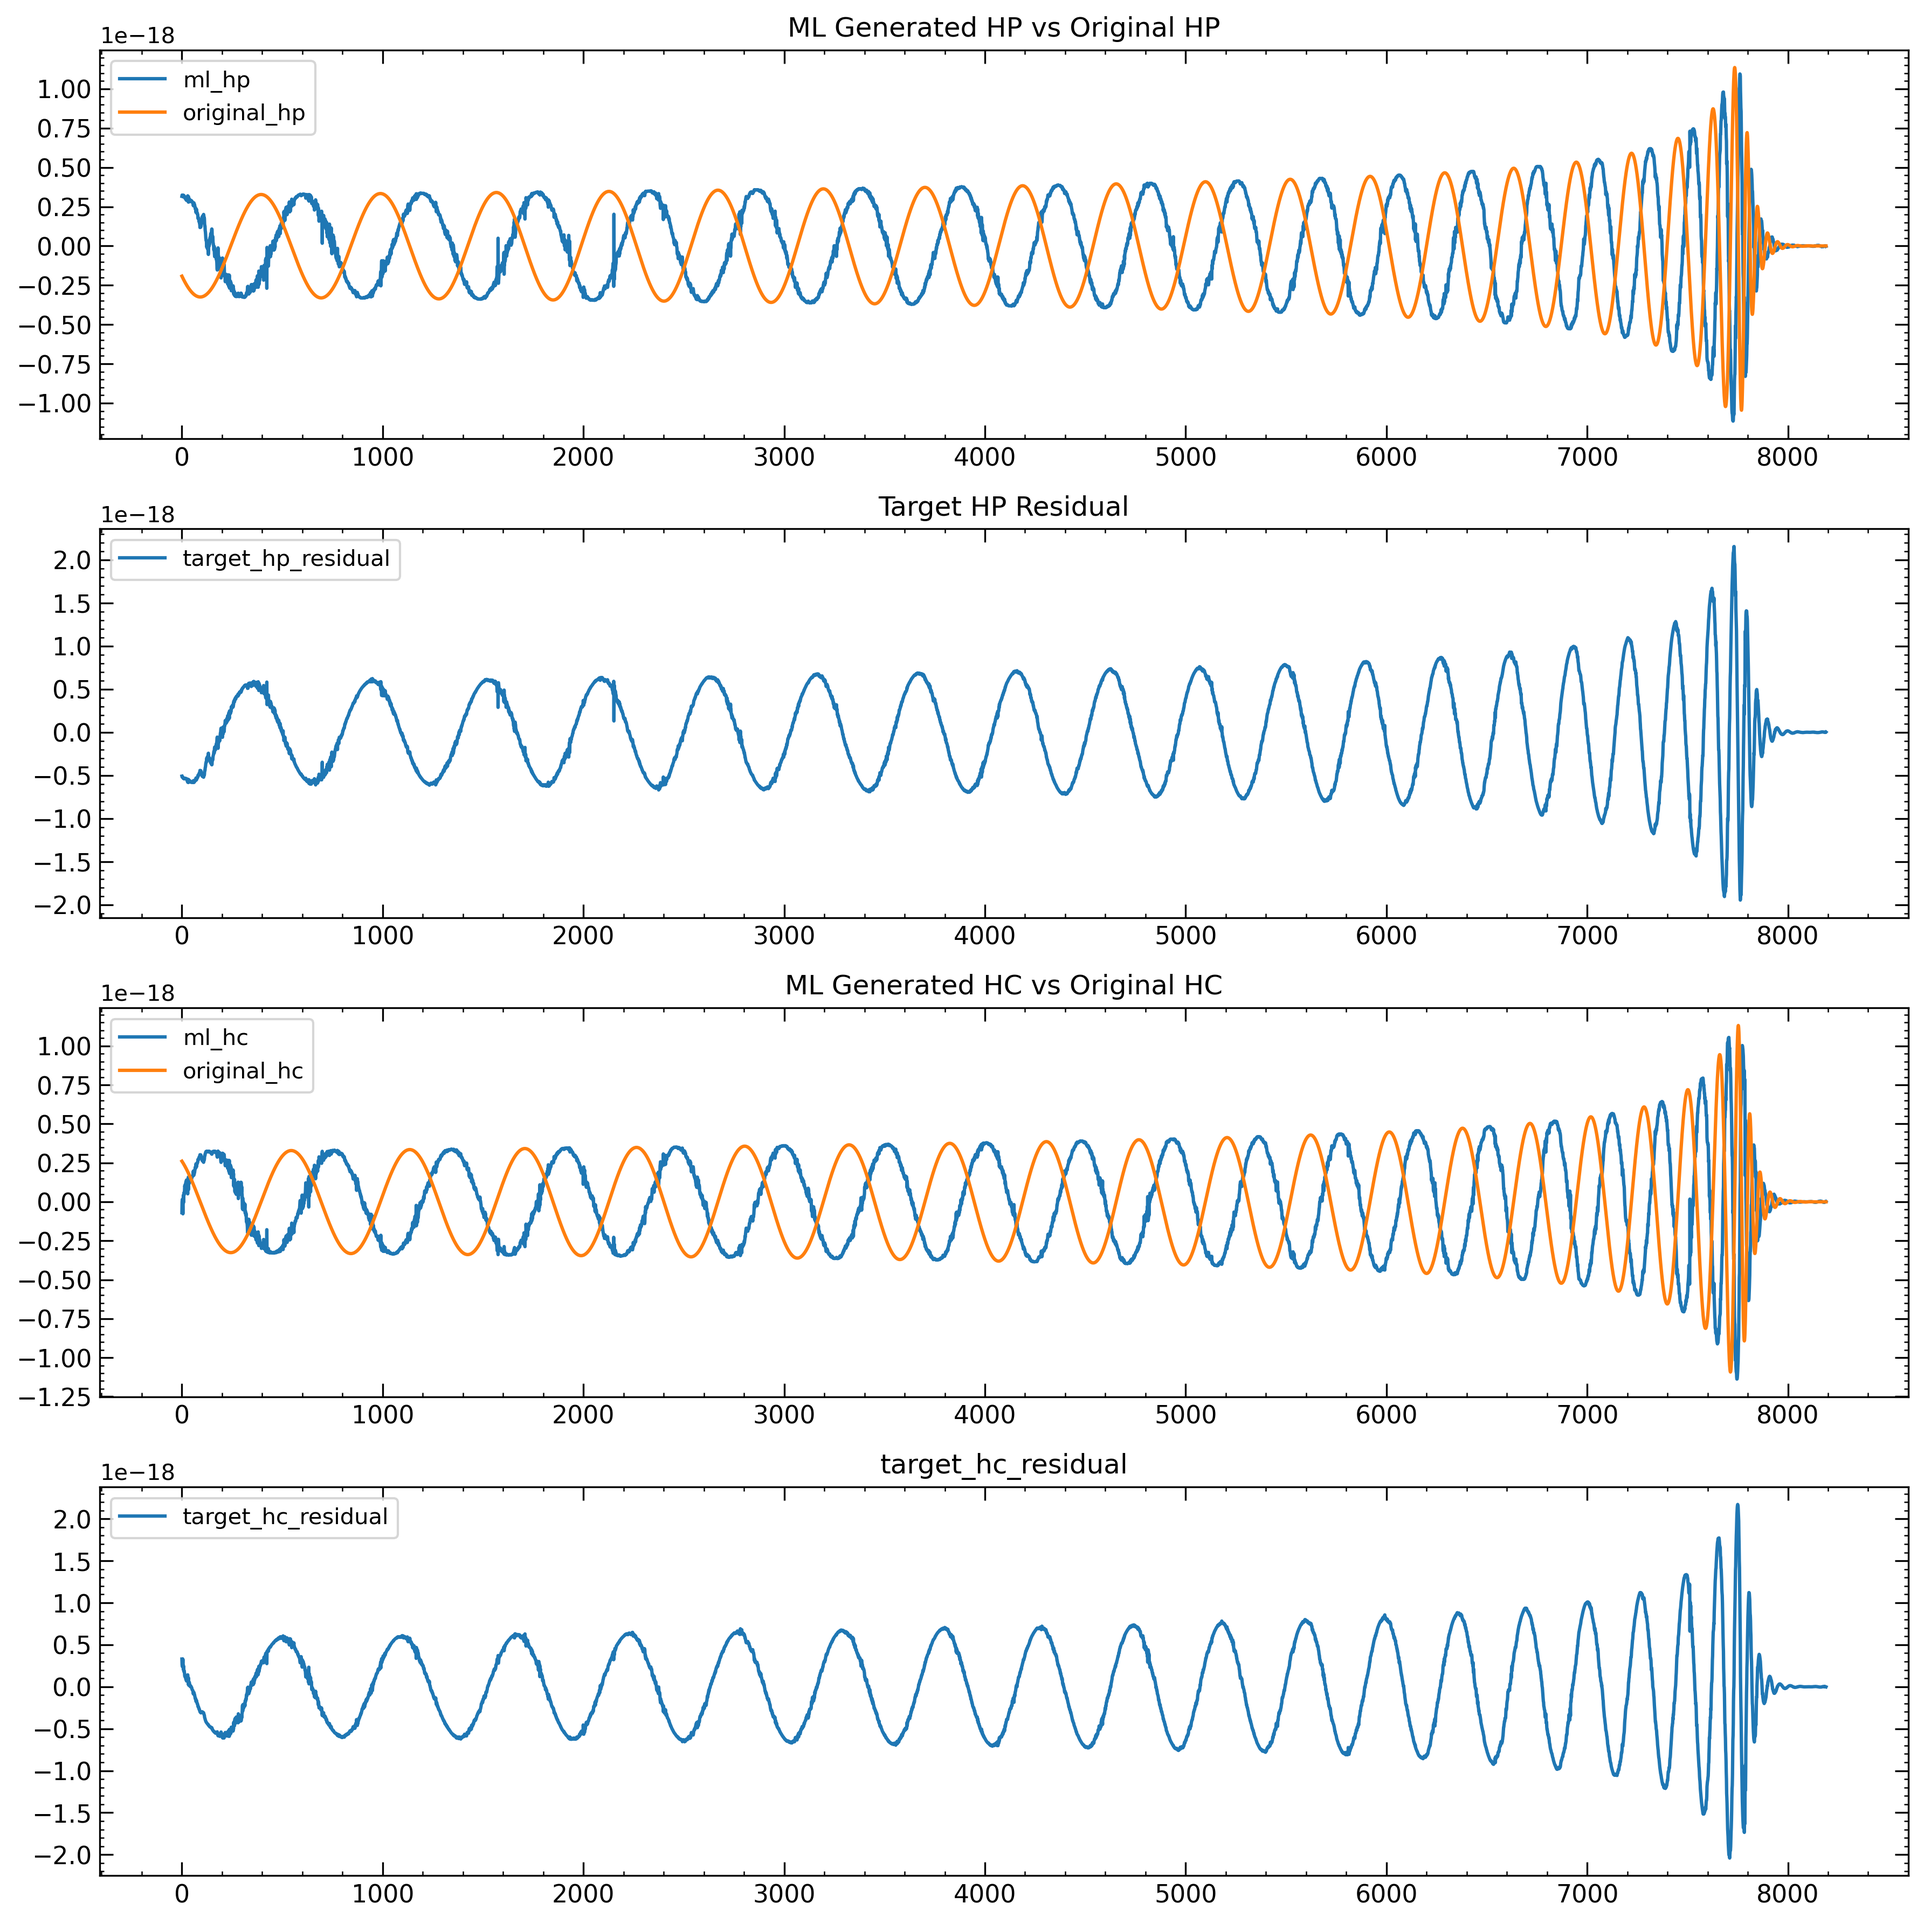
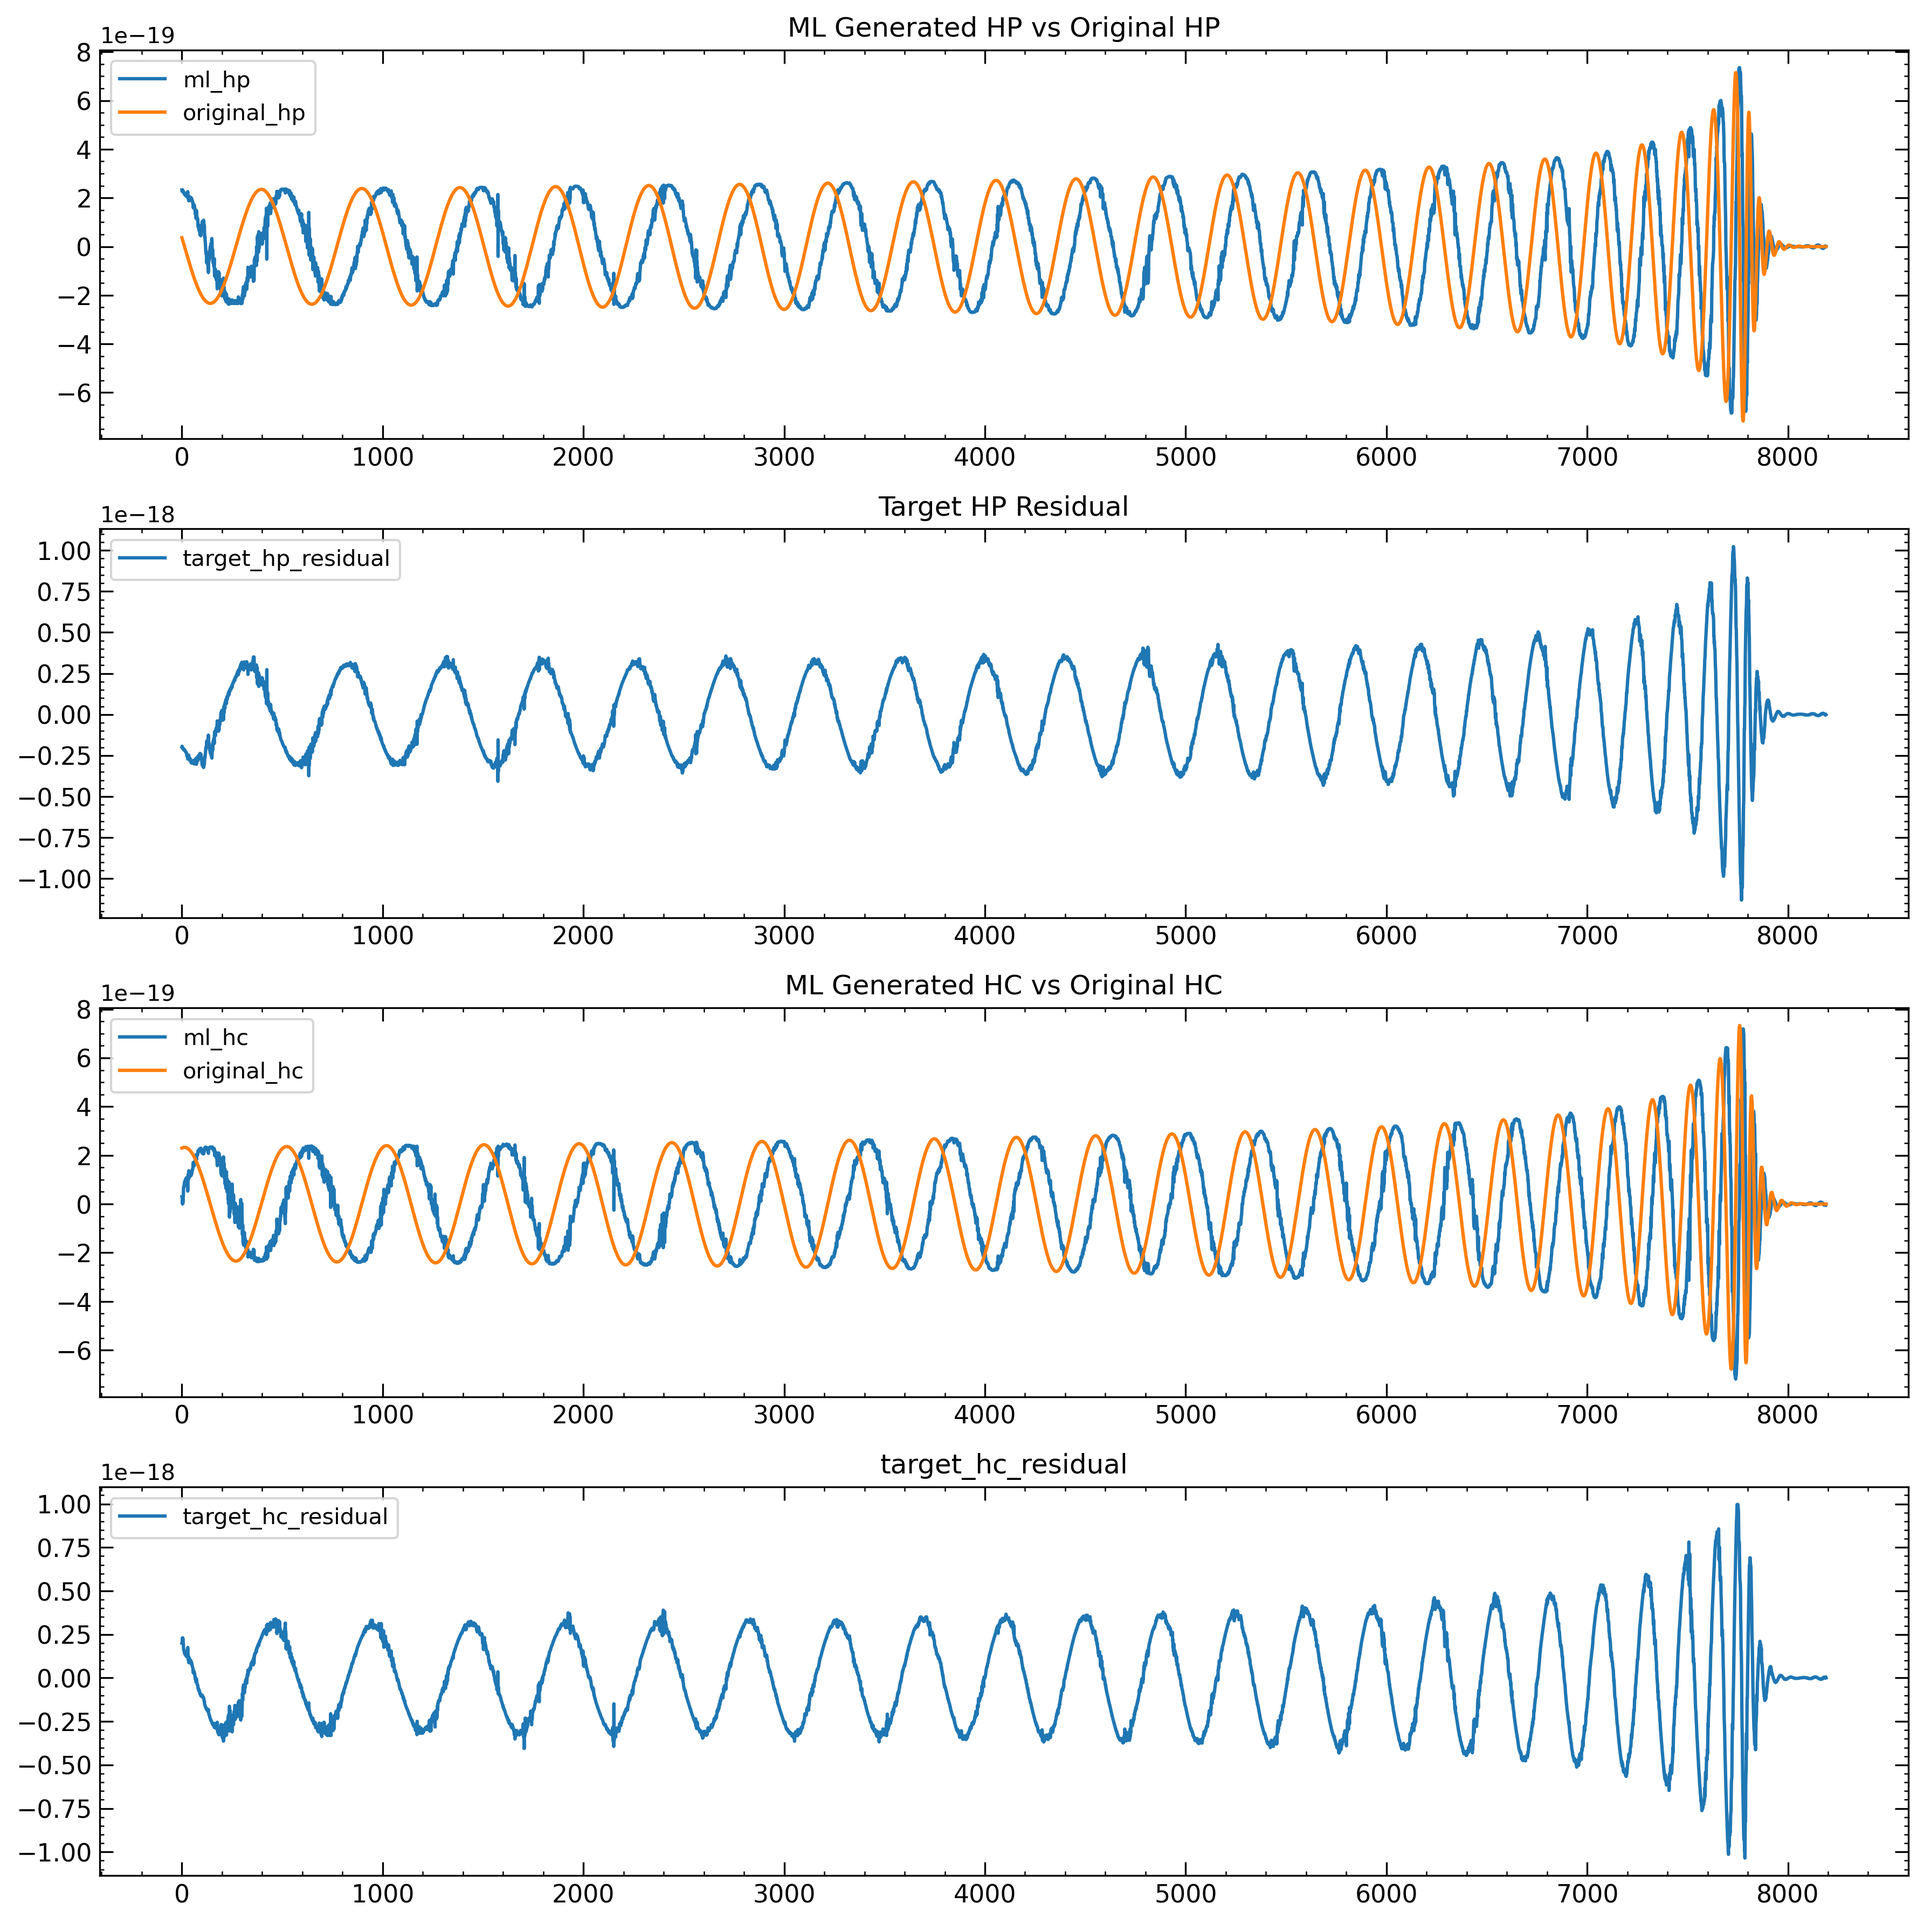
p3m-data: finish func to saving data

diff --git a/finetuner.py b/finetuner.py
@@ -138,10 +138,10 @@ def calc_residual_via_best_match(orig, ml, delta_t=None, use_psd=True):
     return residual
 
 
-def get_finetuner_input(wfmodel, calmodel, originals, labels, indices=None, attr=None,
+def get_finetuner_input(wfmodel, calmodel, originals, labels, hf_file, indices, attr=None,
                         labels_mean=None, labels_std=None,
                         inputnames=['ml_hp', 'ml_hc'], targetnames=['target_hp_residual', 'target_hc_residual'],
-                        savename=None, savedir='../data'):
+    ):
     """
     Generate the fine tuner input and target data for a batch of original waveforms and labels.
 
@@ -206,25 +206,25 @@ def get_finetuner_input(wfmodel, calmodel, originals, labels, indices=None, attr
     param_s1z = param_s1z.unsqueeze(-1).expand(-1, ml_hp.shape[-1])
     param_s2z = param_s2z.unsqueeze(-1).expand(-1, ml_hp.shape[-1])
 
-    fig, ax = plt.subplots(4, 1, figsize=(12, 12))
-    ax[0].plot(ml_hp[0].cpu().numpy(), label=inputnames[0])
-    ax[0].plot(orig_hp[0].cpu().numpy(), label='original_hp')
-    ax[0].set_title('ML Generated HP vs Original HP')
-    ax[0].legend()
-    ax[1].plot(target_hp_residual[0].cpu().numpy(), label=targetnames[0])
-    ax[1].set_title('Target HP Residual')
-    ax[1].legend()
-    ax[2].plot(ml_hc[0].cpu().numpy(), label=inputnames[1])
-    ax[2].plot(orig_hc[0].cpu().numpy(), label='original_hc')
-    ax[2].set_title('ML Generated HC vs Original HC')
-    ax[2].legend()
-    ax[3].plot(target_hc_residual[0].cpu().numpy(), label=targetnames[1])
-    ax[3].set_title(targetnames[1])
-    ax[3].legend()
-    putils.beautifyPlot(ax, top=True, right=True)
-    plt.tight_layout()
-    plt.savefig(f'finetuner_input_example_{NOW}.png', dpi=300, bbox_inches='tight')
-    plt.close()
+    # fig, ax = plt.subplots(4, 1, figsize=(12, 12))
+    # ax[0].plot(ml_hp[0].cpu().numpy(), label=inputnames[0])
+    # ax[0].plot(orig_hp[0].cpu().numpy(), label='original_hp')
+    # ax[0].set_title('ML Generated HP vs Original HP')
+    # ax[0].legend()
+    # ax[1].plot(target_hp_residual[0].cpu().numpy(), label=targetnames[0])
+    # ax[1].set_title('Target HP Residual')
+    # ax[1].legend()
+    # ax[2].plot(ml_hc[0].cpu().numpy(), label=inputnames[1])
+    # ax[2].plot(orig_hc[0].cpu().numpy(), label='original_hc')
+    # ax[2].set_title('ML Generated HC vs Original HC')
+    # ax[2].legend()
+    # ax[3].plot(target_hc_residual[0].cpu().numpy(), label=targetnames[1])
+    # ax[3].set_title(targetnames[1])
+    # ax[3].legend()
+    # putils.beautifyPlot(ax, top=True, right=True)
+    # plt.tight_layout()
+    # plt.savefig(f'finetuner_input_example_{NOW}.png', dpi=300, bbox_inches='tight')
+    # plt.close()
 
     if labels_mean is None or labels_std is None:
         labels_mean = wfmodel.MODEL_CONFIG['labels_mean']
@@ -247,22 +247,21 @@ def get_finetuner_input(wfmodel, calmodel, originals, labels, indices=None, attr
                                 param_s1z.unsqueeze(1), param_s2z.unsqueeze(1)], dim=1)  # shape: (batch, 6, n)
     logger.debug(f"Finetuner input shape: {finetuner_input.shape}")
 
-    if savename is not None and indices is not None:
-        with h5py.File(os.path.join(savedir, savename), 'a') as hf:
-            for i in range(len(indices)):
-                grp_name = f'sample{int(indices[i])}'
-                if grp_name in hf:
-                    logger.warning(f"Group {grp_name} already exists in HDF file. Overwriting...")
-                    del hf[grp_name]
-                grp = hf.create_group(grp_name)
-                grp.create_dataset(inputnames[0], data=finetuner_input[i, 0, :].cpu().numpy())
-                grp.create_dataset(inputnames[1], data=finetuner_input[i, 1, :].cpu().numpy())
-                grp.create_dataset(targetnames[0], data=finetuner_target[i, 0, :].cpu().numpy())
-                grp.create_dataset(targetnames[1], data=finetuner_target[i, 1, :].cpu().numpy())
-                grp.create_dataset('param_m1', data=finetuner_input[i, 2, :].cpu().numpy())
-                grp.create_dataset('param_m2', data=finetuner_input[i, 3, :].cpu().numpy())
-                grp.create_dataset('param_s1z', data=finetuner_input[i, 4, :].cpu().numpy())
-                grp.create_dataset('param_s2z', data=finetuner_input[i, 5, :].cpu().numpy())
+    # -- Save the finetuner input and target data to HDF file
+    for i in range(len(indices)):
+        grp_name = f'sample{int(indices[i])}'
+        if grp_name in hf_file:
+            logger.warning(f"Group {grp_name} already exists in HDF file. Overwriting...")
+            del hf_file[grp_name]
+        grp = hf_file.create_group(grp_name)
+        grp.create_dataset(inputnames[0], data=finetuner_input[i, 0, :].cpu().numpy())
+        grp.create_dataset(inputnames[1], data=finetuner_input[i, 1, :].cpu().numpy())
+        grp.create_dataset(targetnames[0], data=finetuner_target[i, 0, :].cpu().numpy())
+        grp.create_dataset(targetnames[1], data=finetuner_target[i, 1, :].cpu().numpy())
+        grp.create_dataset('param_m1', data=finetuner_input[i, 2, :].cpu().numpy())
+        grp.create_dataset('param_m2', data=finetuner_input[i, 3, :].cpu().numpy())
+        grp.create_dataset('param_s1z', data=finetuner_input[i, 4, :].cpu().numpy())
+        grp.create_dataset('param_s2z', data=finetuner_input[i, 5, :].cpu().numpy())
     return
 
 
@@ -325,7 +324,9 @@ def save_finetuner_data(wfmodel_modelname, wfmodel_configname, calibrator_modeln
 
     for i in range(len(dataloaders)):
         logger.info(f"Generating and saving fine tuner input and target data for {datasets[i]} set...")
+        ensure_dir(savedir)
         savename = f'finetuner_data_{datasets[i]}_{timestamp}.hdf'
+        hf_file = h5py.File(os.path.join(savedir, savename), 'a')
         for batch in tqdm(dataloaders[i], desc="batches"):
             input, target, labels, keys, strains, indices, attr = batch
             get_finetuner_input(
@@ -334,14 +335,14 @@ def save_finetuner_data(wfmodel_modelname, wfmodel_configname, calibrator_modeln
                 originals=strains,   # targets are original [hp,hc] strains waveforms
                 labels=labels,
                 indices=indices,
+                hf_file=hf_file,
                 attr=attr,
                 inputnames=inputnames,
                 targetnames=targetnames,
-                savename=savename,
-                savedir=savedir
             )
-        logger.info(f"Finished generating and saving finetuner input and target data for {datasets[i]} set to HDF file: {savename}")
-
+        hf_file.close()
+    logger.info(f"Finished generating and saving finetuner input and target data for {datasets[i]} set to HDF file: {savename}")
+    
     # -- Save finetuner data config to JSON file
     config = {
         'wfmodel_modelname': wfmodel_modelname,
@@ -352,7 +353,7 @@ def save_finetuner_data(wfmodel_modelname, wfmodel_configname, calibrator_modeln
         'timestamp': timestamp
     }
     config_fname = f'finetuner_data_{timestamp}_config.json'
-    with open(savedir + config_fname, 'w') as f:
+    with open(os.path.join(savedir, config_fname), 'w') as f:
         json.dump(config, f, indent=4)
     logger.info(f"Finished generating and saving finetuner input and target data to HDF files for all sets (train, valid, test).")
 
